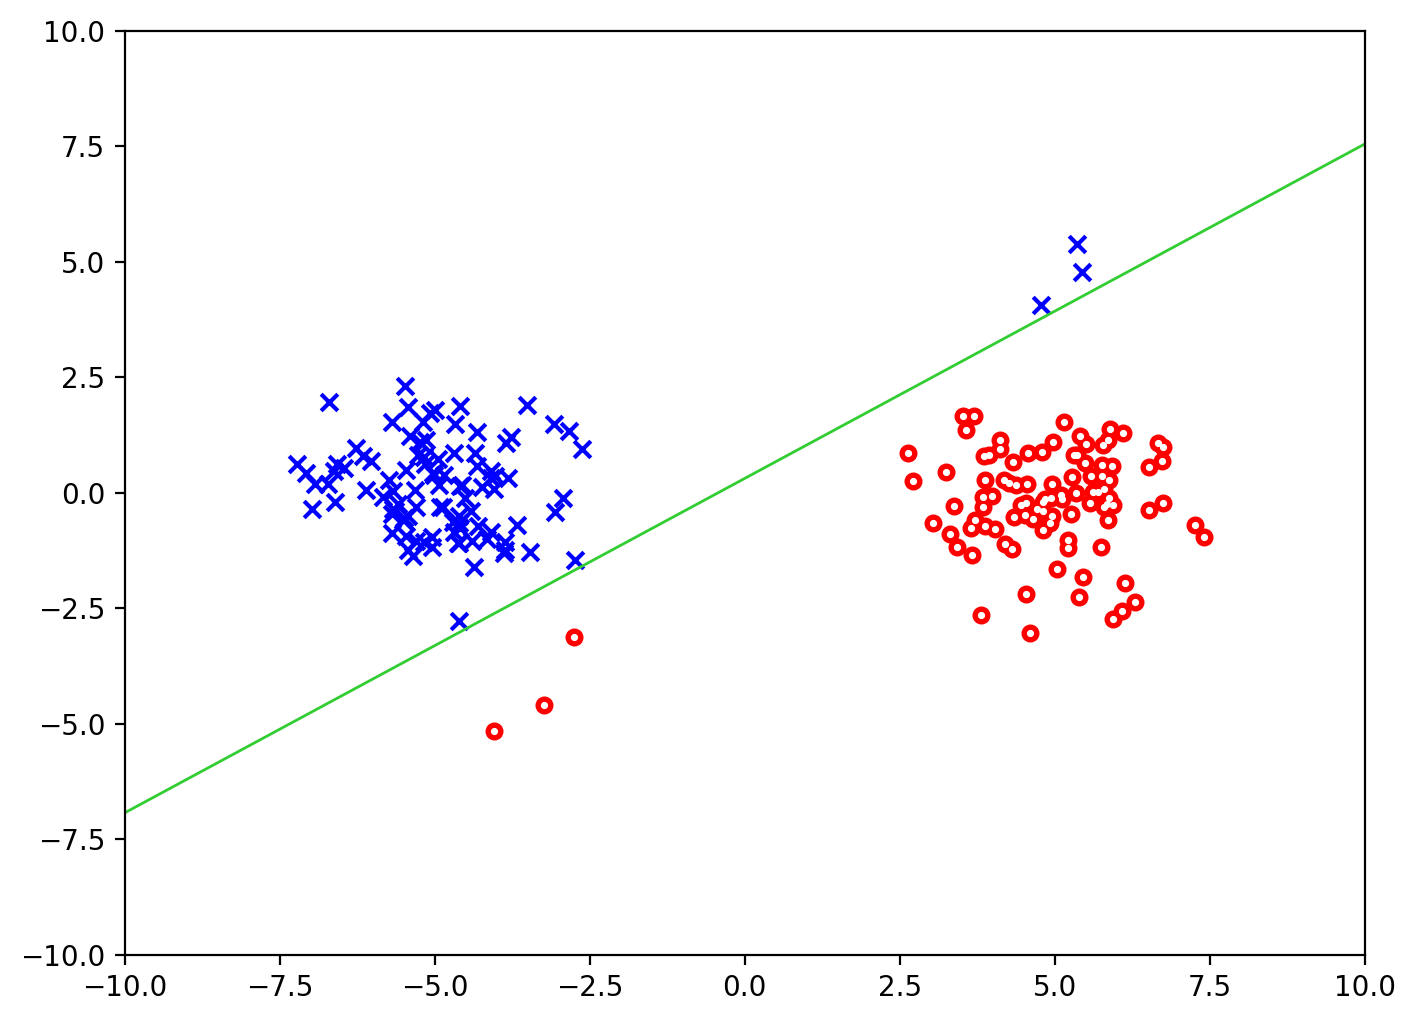
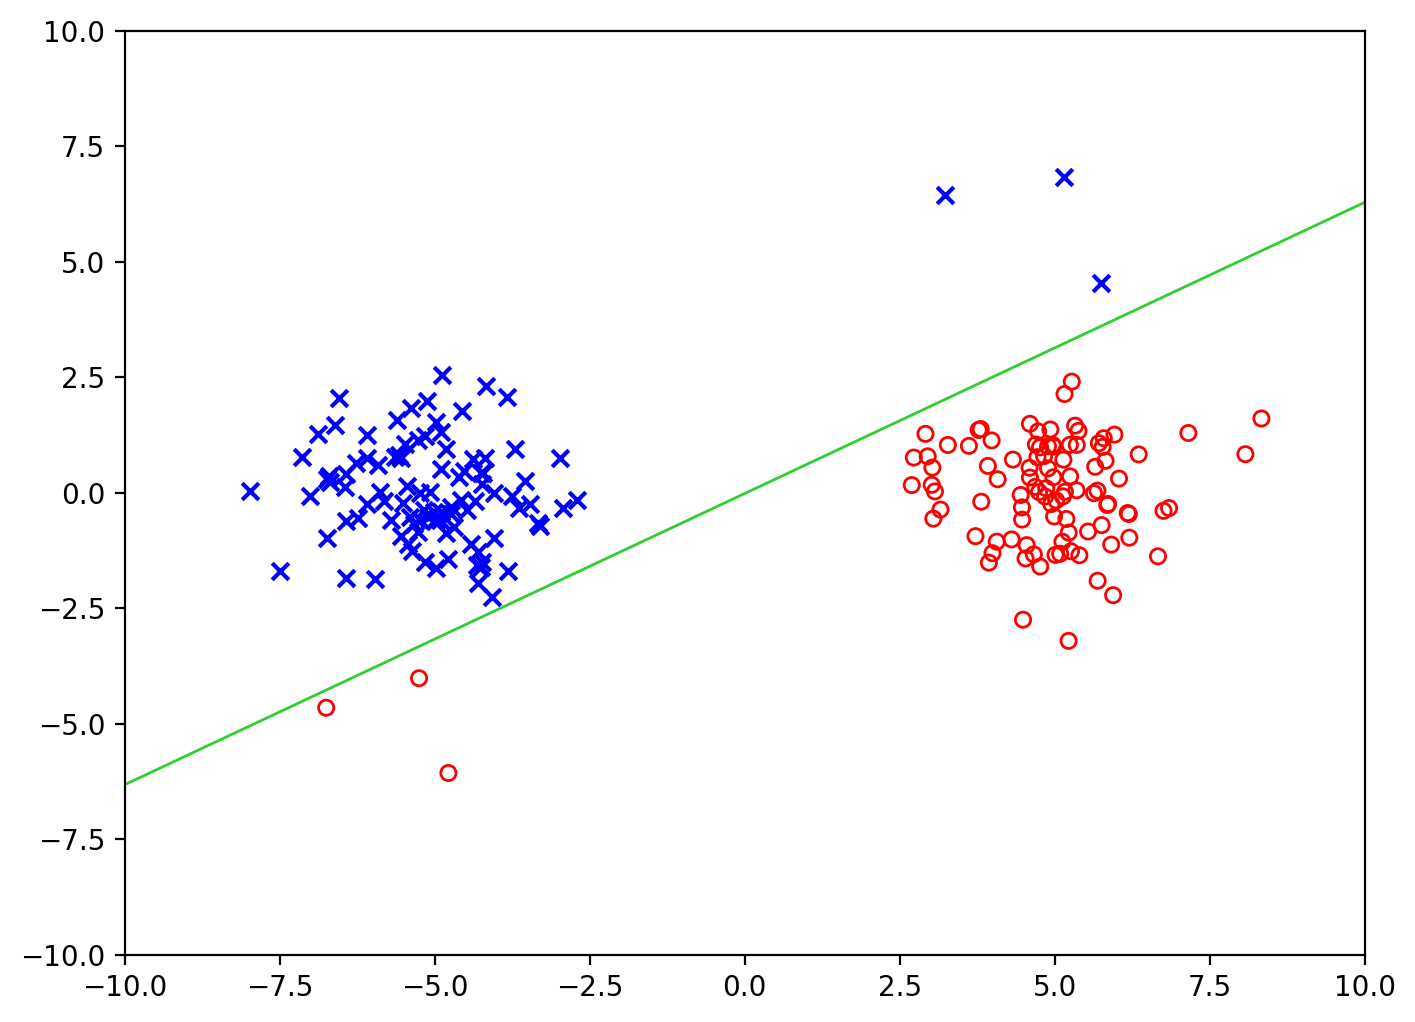
add report

diff --git a/src/Lec7/classify.py b/src/Lec7/classify.py
@@ -1,0 +1,65 @@
+import numpy as np
+import matplotlib.pyplot as plt
+
+# np.random.seed(1)
+
+def generate_data(sample_size=90, n_class=3):
+    x = (np.random.normal(size=(sample_size // n_class, n_class))
+         + np.linspace(-3., 3., n_class)).flatten()
+    y = np.broadcast_to(np.arange(n_class),
+                        (sample_size // n_class, n_class)).flatten()
+    return x, y
+
+
+def cal_K(x, c, h):
+    return np.exp(-(x-c[:, None]) ** 2 / (2 * h ** 2))
+
+
+def cal_pi(y):
+    global n_class
+    pi = np.zeros((y.shape[0], n_class))
+    for i in range(y.shape[0]):
+        pi[i, y[i]] = 1
+    return pi
+
+
+def train(x, y, l, h):
+    global n_class
+
+    K = cal_K(x, x, h)
+    pi = cal_pi(y)
+    theta = np.linalg.solve((K.T.dot(K) + l * np.identity(len(K))), K.T.dot(pi))
+    return theta
+
+
+def visualize(x, y, theta, h):
+    X = np.linspace(-5, 5, num=10000)
+    K = np.exp(-(x - X[:, None]) ** 2 / (2 * h ** 2))
+    
+    fig = plt.figure(figsize=(6, 4), dpi=200)
+    plt.xlim(-5, 5)
+    plt.ylim(-0.3, 1.5)
+    unnormalized_prob = K.dot(theta)
+    for i in range(len(unnormalized_prob)):
+        unnormalized_prob[i] = np.array(list(map(lambda x: x if x >= 0 else 0, unnormalized_prob[i])))
+    prob = unnormalized_prob / np.sum(unnormalized_prob, axis=1, keepdims=1)
+
+    plt.plot(X, prob[:, 0], c='blue', lw=1)
+    plt.plot(X, prob[:, 1], c='red', lw=1)
+    plt.plot(X, prob[:, 2], c='green', lw=1)
+
+    plt.scatter(x[y == 0], -0.1 * np.ones(len(x) // 3), c='blue', marker='o')
+    plt.scatter(x[y == 1], -0.2 * np.ones(len(x) // 3), c='red', marker='x')
+    plt.scatter(x[y == 2], -0.1 * np.ones(len(x) // 3), c='green', marker='v')
+    plt.savefig('../../output/Lec7/result.png', bbox_inches='tight')
+
+
+def train_predict(x, y, l, h):
+    theta = train(x, y, l, h)
+    visualize(x, y, theta, h)
+
+
+n_class = 3
+x, y = generate_data(sample_size=120, n_class=n_class)
+
+train_predict(x, y, h=1, l=0.2)

diff --git a/src/Lec6/svm.py b/src/Lec6/svm.py
@@ -1,6 +1,6 @@
 import numpy as np
 import matplotlib.pyplot as plt
-np.random.seed(16)
+np.random.seed(100)
 
 
 def generate_data(sample_size):
@@ -21,7 +21,7 @@ def svm(x, y, l, lr):
     w = np.zeros(3)
     prev_w = w.copy()
     grad = np.zeros(3)
-    R = np.dot(x[:, :2].T, x[:, :2])
+    R = np.eye(3)
     for i in range(10000):
         f_x = np.dot(x, w)
         tmp = 1 - f_x * y
@@ -30,7 +30,7 @@ def svm(x, y, l, lr):
                 grad += np.zeros(3)
             else:
                 grad -= y[i] * x[i]
-        w -= lr * (grad + np.append(l * np.dot(R, w[:2]), 0))
+        w -= lr * (grad + l * np.dot(R, w))
         if np.linalg.norm(w - prev_w) < 1e-3:
             break
         prev_w = w.copy()
@@ -49,6 +49,6 @@ def visualize(x, y, w):
 
 
 x, y = generate_data(200)
-w = svm(x, y, l=0.03, lr=0.01)
+w = svm(x, y, l=0.1, lr=1)
 fig = visualize(x, y, w)
 plt.savefig('../../output/Lec6/result.png', bbox_inches='tight')
